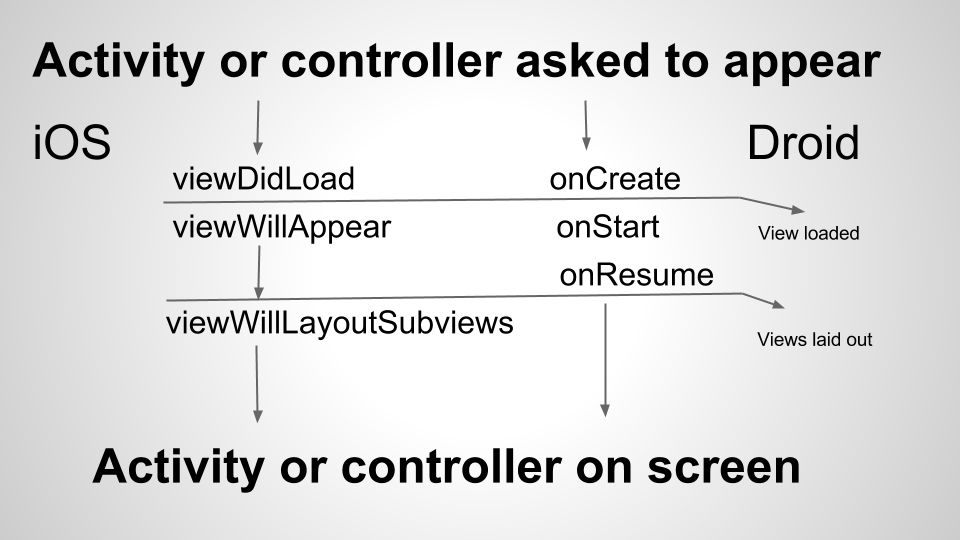
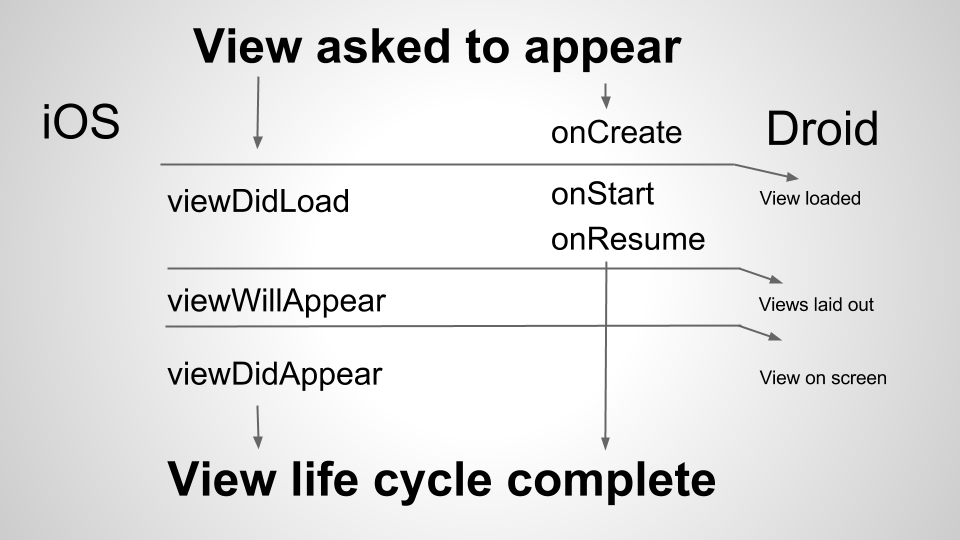
Edits are coming together...

diff --git a/_posts/mobile/2014-10-10-view-controller-lifecycle.md b/_posts/mobile/2014-10-10-view-controller-lifecycle.md
@@ -1,42 +1,41 @@
 ---
 layout: article
-title: "View Controller Lifecycle"
+title: "iOS > Android: View Life Cycle"
 modified:
 categories: mobile
-excerpt:
+excerpt: A comparison of the view and controller life cycle hooks in iOS and Android.
 tags: [android, iOS, mobile, view controllers]
 image:
   feature:
   teaser: /lifecycle/basic-lifecycle-android.png
   thumb: /lifecycle/basic-lifecycle-android.png
-date: 2014-10-10T08:31:09-07:00
+date: 2014-11-23T08:31:09-07:00
 ---
 
- In this post, I’m going to compare the life cycle hooks in iOS and Android, and discuss at a high level why I think iOS’s handling of view and controller life cycle is superior to Android’s.  Life cycle is a huge topic, so in the interest of brevity, I'll leave specifics for future posts.  In general, iOS provides hooks that match the life cycle of the view, which creates an easy and intuitive system that successfully hides system level concerns from the developer. On the other hand, Android tied their hooks to the state of the controller, which conflates the life cycle of the view with the state of the controller, exposing much of the complexity of the controller, and creating a confusing and quirky system.  
+ In this post, I’m going to compare the life cycle hooks in iOS and Android, and discuss at a high level why iOS’s system is superior to Android’s.  In general, iOS provides hooks that match the life cycle of the view, which creates an easy and intuitive system, and successfully hides system level concerns from the developer. On the other hand, Android's hooks follow the state of the controller, which conflates the life cycle of the view with the state of the controller, breaking the fundamental abstraction of MVC.  This stunningly bad design creates a confusing and quirky system, and exposes system level complexity to the developer.  
 
 MVC refresher
   
-To establish terminology, here's a quick description of Model-View-Controller, which is the design paradigm favored by both platforms.   In the Model-View-Controller design paradigm, a controller manages the view's state and life cycle. Controllers are also responsible for coordinating the state of their view with the rest of the app, and encompass significant complexity around memory management, view measurement and layout, and saved app states. Controllers are sometimes referred to as view controllers, but I'm going to leave out the "view" part to avoid confusion. 
+To establish terminology, here's a quick description of Model-View-Controller [insert link], the design paradigm favored by both platforms.   MVC seeks to reduce the complexity of user interfaces by separating concerns into models, views, and controllers.  Models hold the data, and views are the representation of the data on screen.  Controllers manage the views and their life cycle, and coordinate with models and the rest of the app.  Since controllers are in the middle of everything, they are usually significantly more complicated than views. 
 
 The View Life Cycle
 
 When a view is about to appear on screen, the app needs to perform the following tasks:
 
-1. Create the view
-2. Load the view into memory
-3. Lay out and measure the elements of the view
-4. Render the view on screen
+1. Create the view and load into memory
+2. Lay out and measure the elements of the view
+3. Render the view on screen
 
 And when the view should leave the screen:
 
-1. Persist view's state as needed
+1. Hide the view
 2. Release memory
 
-These tasks represent the major stages in a view's life cycle, and a developer might want to take action at some or all of these stages. To support these actions, each platform has provided a number of hooks in their controllers. 
+These tasks represent the major stages in a view's life cycle, and a developer might want to take action at some or all of these stages. For instance, a developer may wish to persist the state of the UI when a view is going off screen.  To support these actions, each platform has provided a number of hooks in their controllers. 
 
 The Life Cycle Hooks
 
-Apple's life cycle hooks closely match the steps of the view life cycle.  The most common methods are:
+Apple's most common methods are:
 
 1. ViewDidLoad
 2. ViewWillAppear
@@ -44,9 +43,17 @@ Apple's life cycle hooks closely match the steps of the view life cycle.  The mo
 4. ViewWillDisappear
 5. ViewDidDisappear
 
+As you can see from names like 'viewDid' and 'viewWill,' the iOS hooks are focused on the state of the view.  The hooks do not make any assertions about the state of the controller, or the larger state of the app.  Apple has successfully separated the concerns of the view from the concerns of the rest of the app in their life cycle hooks.  
+
+This separation, along with aptly-named hooks, creates an intuitive system. For instance, it's obvious that `viewWillAppear` will get called when the view is about to appear.  It is also clear that `viewDidAppear` will get called after the view has been rendered on screen, and after any associated system level tasks have been completed.  In general, I find the iOS hooks clearly named, and thoughtfully laid out. I will note that the developer is still responsible for learning what happens at a system level before each hook.   For instance, views are not measure in `viewDidLoad`, so any requests for a dimension will return 0, which can be a source of frustration for new developers.  But I find these details easy to look up.  
+
 Here are the equivalent Android docs.  
 
 ![Android Lifecycle](/images/lifecycle/basic-lifecycle-android.png)
+
+In contrast to iOS, Android's hooks get called when the *controller* is about to change state, not the view.  The states, like "paused" and "resumed," are controller states, so events like `onPause` are really tied to the controller.  In fact, Android's hooks make no mention of the view at all, and as we will see, only have a peripheral connection to the life cycle of the view.  This abstraction is incorrect and adds enormous complexity to Android's system.  
+
+Also, Android's hook names are not informative.  For instance, what does it mean for a controller to be "started," and how is that different than "resumed?"  What is the distinction between "paused" and "stopped?"  These state names do not convey the nuance and complexity that they encompass.  Notice that the docs have parentheses explaining how these controller states match to the view life cycle, which is the more natural way to understand when these hooks will be called.  Furthermore, by using the terminology "onEvent," Android fails to communicate whether system level events tied to that event come before or after the hook. For instance, when a controller is paused, is the hook called immediately while the view is still on screen, or after the view has been partially occluded? This ambiguous naming increases learning time and adds cognitive overhead.  
 
 Here's a quick comparison of the most common lifecycle methods on the two platforms, and where they fit into the life cycle of the view.  
 
@@ -54,36 +61,23 @@ Here's a quick comparison of the most common lifecycle methods on the two platfo
 
 ![View Disappearing](/images/lifecycle/view-controller-disappear.png)
 
-A Difference of Philosophy
+Side by side, the difference between iOS's view abstraction and Android's controller abstraction becomes apparent.  Apple has one hook at each stage, but Android sometimes has multiple hooks, or no hooks at all.  In other words, Android's controller abstraction doesn't match what a developer needs to do, making the system difficult to understand, and making it difficult to figure out where code should go.  
+ 
+Furthermore, by abstracting on the controller events, Android has tightly coupled the view's life cycle with the controller's life cycle, breaking the fundamental abstraction of MVC.  For instance, on screen rotation, Android envisioned a scenario where a developer would want to substitute different layouts for landscape and portrait modes.  This is a noble goal, and I applaud the flexibility that it grants.  However, due to the controller abstraction, in order to change the view, the *controller* also needs to change.  In other words, to swap out the view and call all of the life cycle hooks again, the entire controller needs to be destroyed and recreated, along with all of its data and state.  If the controller is not recreated properly, the resulting view could have bugs, lose data, or even crash, even though nothing in the controller has changed.  Thus, by abstracting on the controller, Android has complected the view and the controller, which breaks the basic abstraction of MVC.  It's an absolutely terrible design.  As if that's not bad enough, saving and recreating a view can be heinously difficult, which I will cover in a separate blog post.  
 
-Side by side, you can see that, while the hooks on the two platforms are roughly equivalent, the method names expose a major difference in the underlying design philosophy between the two systems.  Apple's hooks, with names like "viewDidAppear" and "ViewWillDisappear," are focused on the view and the view's state, while Android's life cycle hooks, like "onPause" and "onStop," are called when the *controller* is going to change to a different state. By abstracting on the view, iOS has created a more intuitive system that better maps to the view life cycle tasks listed above.  Furthermore, the iOS system must handle much of the controller complexity in the background because controller events are not passed to the developer, simplifying app code.  On the other hand,  Android's controller abstraction is confusing and leaks system level concerns into the realm of the developer, exposing massive complexity.  
+Rotation is not an isolated case; Android's controller abstraction leaks controller concerns and system level complexity into the realm of the developer anywhere and everywhere.  Here's a partial list of other life cycle quirks and gotchas that await the unwary Android developer.  
 
-Apple's system maps directly to the view life cycle tasks listed above, which creates an intuitive and easy to use system.  View life cycle is easy to understand because it relates to a concrete concept: a view that appears on a screen.  Furthermore, the visibility of the view is essentially binary, either the view is on screen or it is not, so there is only one, linear path to calling iOS's hooks.  There are some intermediate steps in the setup and tear down, but those steps are transient, and it's clear where they fit in the larger picture.  So, for instance, it's obvious that `viewWillAppear` will get called when the view is about to appear, there's no ambiguity.  However, since views still encompass a fair amount of complexity, there are some things to be aware of with the iOS hooks.  For instance, in `viewDidLoad`, views are not yet measured so all dimensions are 0, and other view dimensions cannot be inferred.  But, I found these quirks relatively easy to look up and understand.  Overall, the iOS hooks names clearly outline what is happening and when.
+- Backgrounded apps brought to the foreground will often crash if state is not persisted properly.  
+- The developer has to be aware that the system can destroy activities in the background. 
+- onSaveInstanceState is not always called, such as when the user “intentionally” exits the app.
+- The developer has to manually cache the state of the controller.
+- Persisted controllers can have data split between a bundle and a permanent store.  
+- There are often multiple ways that a hook can be called, and the developer needs to be aware of the differences in certain situations. 
+- There are quirks with older versions of Android, notably that `onStop` is not guaranteed to be called in early versions of Android.
+- Google maps objects have their own separate hell of a life cycle.  
 
-In contrast, Android's hook names are ambiguous.  By using the terminology "onEvent," Android fails to communicate whether system level events tied to that event come before or after the hook.  Furthermore, the state names themselves are not informative.  For instance, what does it mean for a controller to be "started," and how is that different than "resumed?"  What is the distinction between "paused" and "stopped?"  While the developer can look up these details, this ambiguity increases learning time and adds cognitive overhead.  Also, notice that the Android docs had to put parentheses explaining how these states match to the view life cycle, which is the more natural way to understand when these hooks will be called.  
+Some of these points represent major failures of design, while others "merely" add complexity.  There is also a separate set of life cycle issues around crashes in asynchronous callbacks when activities get destroyed.  Discussing these issues is beyond the scope of this post, but if there's anything in particular you would like to read more about, shoot me an email and I'll do my best to put together a post on that subject.  
 
-Furthermore, controllers are inherently more difficult to understand than views, which makes Android's system fundamentally more complex than iOS's.  As shown by Android's docs, controllers can have a number of intermediate states, and there are multiple ways to enter and exit those states.  In fact, Android's documentation has a number of bullet points outlining different situations where `onStart` can be called, because there are so many possibilities.  For instance, `onStart` can be called when creating a new activity, after a phone call has interrupted the app, or when the user navigates back to the app from another app.  In iOS, the developer doesn't have to worry about any of these scenarios, only whether a view is appearing or disappearing.  Also, there are a number of situations where certain hooks are not guaranteed to be called in Android.  For instance, an activity can go directly from `onCreate` to `onDestroy`.  Furthermore, `onDestroy` is not guaranteed to be called, so it seems kind of pointless to put code there.  When deciding what code to put in which hook, the developer needs to be aware of these different situations to make an informed decision.  It's extremely complicated, and requires a significant amount of study and attention to get right. 
+In contrast to Android, by tying hooks to the view, iOS has found the correct abstraction.  The hooks only assert that the view did appear, or the view will disappear.  There is no mention of, and really no room for, a concept of why these events might have happened.  Thus, the view abstraction **requires** that much of the controller complexity be handled in the background.  Complexity around whether a view should be cached, whether the system needs to reclaim memory from the controller, etc, CANNOT leak out into the realm of the developer.  It's a fantastic separation of concerns, enforced by design.  
 
-On the other hand, by tying hooks to the view, iOS has required that their controllers handle much of the controller complexity in the background.  The hooks only assert that the view did appear, or the view will disappear.  There is no mention of, and really no room for, a concept of why these events might have happened.  Thus, all of the complexity about whether a view should be cached, whether the system needs to reclaim memory from the controller, etc, MUST be handled by the system.  So, Apple has found a good abstraction that hides complexity.  
-
-In contrast, by abstracting on the controller events, Android has tightly coupled the view's life cycle with the controller's life cycle.  For instance, on screen rotation, Android envisioned a scenario where a developer would want to substitute different layouts for landscape and portrait modes.  This is a noble goal, and I applaud the flexibility that it grants.  However, due to the controller abstraction, in order to change the view, the **controller** also needs to change.  In other words, to swap out the view and call all of the life cycle hooks again, the entire controller needs to be destroyed and recreated, along with all of its data and state.  In essence, by abstracting on the controller, Android has complected the state of the view and the controller, which breaks the basic abstraction of MVC.   Furthermore, if the controller is not recreated properly, the resulting view could have bugs, lose data, or even crash, even though nothing in the controller has changed.  It is stunningly bad design.   As if that's not bad enough, saving and recreating a view can be heinously difficult, which I will cover in a separate blog post.  
-
-Unfortunately, the complexity on Android doesn't end there, a number of other life cycle quirks and gotchas await the unwary Android developer.  A lot of these reflect, or are consequences of Android's core poor design choice to abstract on the controller level.  Here are the ones I can think of off the top of my head, some of which were mentioned above:
-
-1. onSaveInstanceState is not always called, such as when the user “intentionally” exits the app.
-2. Listeners can fire in a random order.
-3. Google maps objects have their own separate hell of a life cycle.  
-4. Supposedly, Fragments require an empty public constructor, which is annoying and not well documented.  
-5. There is no clear documentation on when other setup methods are called, like onPrepareOptionsMenu.  I ended up having to experiment to figure out the order, and I’m not convinced that it's deterministic.
-6. There are quirks with older versions of Android, notably that onStop is not guaranteed to be called in early versions of Android.
-7. OnClickListeners and other listeners will cause crashes if called in quick succession or after the activity is destroyed.
-8. Backgrounded apps brought to the foreground will often crash due to state not being persisted.  
-9. There are often multiple ways that a hook can be called, and the developer needs to be aware of the differences in certain situations. 
-10. The developer has to be aware that the system can destroy activities in the background.  
-11. Fragments have their own set of life cycle methods that are interleaved with the hooks of the parent activity.  
-
-Some of these points represent major failures of design, while others merely add complexity.  There's a lot more I could say about the complexity of Android's view life cycle, but I'll leave those discussions for future blog posts.  If there's anything in particular you would like to read more about, shoot me an email and I'll do my best to put together a post on that subject.  
-
-To sum up, when I learned iOS, I coded for months with only the barest appreciation for what was being handled for me behind the scenes.  I had no idea what the system was doing to my views and controllers when an app was backgrounded, or when the app was rotated.  And I didn't care, I put my code in the logical life cycle hook, and it just worked.  On the other hand, by requiring the developer to be aware of the controller's state, Android adds a massive amount of incidental complexity to their apps, resulting in a confusing and quirky system.  From personal experience, eight months into the development of my first Android app, I was still encountering issues, edge cases, and crashes pertaining to lifecycle. I was still referring to documentation, and discovering new, important details about how the system worked.  I find that in general, Android developers must devote a lot of work and careful attention to handle all of the cases properly, to avoid crashes and UI bugs. So, with iOS as an example, I would like to see reductions in the complexity of view and controller life cycle in future versions of Android.  
-
-
+To sum up, when I learned iOS, I coded for months with only the barest appreciation for what was being handled for me behind the scenes.  I had no idea what the system was doing to my views and controllers when the app was backgrounded, or when the phone was rotated.  And I didn't care, I put my code in the logical life cycle hook, and it just worked.  On the other hand, by requiring the developer to be aware of the controller's state, Android has introduced a massive amount of incidental complexity.  Eight months into the development of my first Android app, I was still encountering issues, edge cases, and crashes pertaining to lifecycle. I was still referring to documentation, and discovering new, important details about how the system worked. Overall, Android's handling of life cycle feels poorly designed, and poorly executed.  In fairness to the framework engineers, Java imposes limitations, and I'm sure there are many other constraints that I'm not aware of that pushed the design in this direction.  But, with iOS as an example, I would like to see reductions in the complexity of view and controller life cycle in future versions of Android.  

diff --git a/_posts/mobile/2014-10-09-linear-layout.md b/_posts/mobile/2014-10-09-linear-layout.md
@@ -51,9 +51,11 @@ Note that auto layout will automatically infer a set of constraints to define ho
 
 ![The Basic Layout, with Constraints!](/images/ios/basic-layout-constraints.png)
 
-As you can see, I had to add eight constraints to do what Android did for free, adding significant complexity and code bloat.  As a view gets more complex and the number of constraints multiplies, this system quickly becomes unwieldy.  It can be really difficult to determine how a view element's position is being defined when there are dozens of constraints, and other elements are being dynamically resized.  Also, with so many constraints floating around, there are numerous ways to constrain the view, and the developer is responsible for choosing the best one.  For instance, to center each view, I chose the “Center X Alignment” constraint relative to the parent view. But, I could have defined the horizontal position of each view as a distance from the left margin, or I could have chained the Center X Alignments together, so that each view is center aligned with the one above it.  I chose relative to parent because the simplest layouts use constraints that are defined relative to the parent view whenever possible.  That way, constraints are not chained off of other elements in the view, and it is easier to add/remove views.  Regardless of the choices you make, constraints require a fair amount of thought, and can be very time consuming to get right. 
+I had to add eight constraints to do what Android did for free, adding significant complexity and code bloat.  As a view gets more complex and the number of constraints multiplies, this system quickly becomes unwieldy.  It can be really difficult to determine how a view element's position is being defined when there are dozens of constraints, and other elements are being dynamically resized.  
 
-In contrast to the web of constraints in IB, the readability of the Android xml layout file allows me to use simple attributes to build clean, easy to follow, and encapsulated view elements.  For instance, I used `fill_parent` on the width and height attributes of the LinearLayout to fill the screen, and set some margins on the views to fix some spacing issues.  I set the source file and the scaling type for the image view inside their respective xml tags, where the attributes are easy to find and understand. 
+Also, with so many constraints floating around, there are numerous ways to constrain the view, and the developer is responsible for choosing the best one.  For instance, to center each view, I chose the “Center X Alignment” constraint relative to the parent view. But, I could have defined the horizontal position of each view as a distance from the left margin, or I could have chained the Center X Alignments together, so that each view is center aligned with the one above it.  I chose relative to parent because the simplest layouts use constraints that are defined relative to the parent view whenever possible.  That way, constraints are not chained off of other elements in the view, and it is easier to add/remove views.  Regardless of the choices you make, constraints require a fair amount of thought, and can be very time consuming to get right. 
+
+In contrast to the web of constraints in iOS, the readability of the Android xml layout file allows me to use simple attributes to build clean, easy to follow, and encapsulated view elements.  For instance, I can use `fill_parent` on the width and height attributes of the LinearLayout to fill the screen, and set margins on the text view and button to fix some spacing issues.  I also can set the source file and the scaling type for the image view.  All of these attributes reside inside the xml tag, where the they are easy to find and understand. 
 
 {% highlight css %}
 <LinearLayout xmlns:android="http://schemas.android.com/apk/res/android"
@@ -249,6 +251,6 @@ Let's say I want to move these buttons to reside above the picture.  Because all
 
 It's a different story in iOS.  A button layout with the type of flexibility I demonstrated on Android is difficult or impossible to reproduce.  There are ways to hard code, or semi-hard code the layout, but the result will not be flexible or robust against certain design changes.  It's enough of a pain to try to recreate on iOS that I'm going to leave it to a future blog post, if there's enough interest.  Or if someone has a brilliant, simple way, I'm all ears. 
 
-To summarize, the fundamental mistake in iOS is a lack of a coherent abstraction.  Constraints are very low level building blocks for views, and they often do not represent the fundamental tasks that a developer is trying to accomplish. So, the developer has to spend a lot of time and energy translating desires like, "I want a couple of buttons on screen that expand on rotation," into this language of constraints.  It's time consuming, brainpower intensive, and is a distraction from the business logic of the app. Usually, there are multiple ways of doing the same thing, none of them simple. Thus, different code bases will often handle views differently, and even different developers in the same codebase will use different paradigms.  This inconsistency leads to complicated, asymmetric view hierarchies.  
+To summarize, the fundamental mistake in iOS is a lack of a coherent abstraction.  Constraints are very low level building blocks for views, and they often do not represent the fundamental tasks that a developer is trying to accomplish. So, the developer has to spend a lot of time and energy translating desires like, "I want a couple of buttons on screen that expand on rotation," into this language of constraints.  It's time consuming, brainpower intensive, and is a distraction from the business logic of the app. Also, the developer usually has to choose between multiple ways of accomplishing their task, none of them simple. Thus, different code bases will often handle views differently, and even different developers in the same codebase will use different paradigms.  This inconsistency leads to complicated, asymmetric view hierarchies.  
 
-On the other hand, by providing layout abstractions, Android has managed to hide much of the complexity surrounding views. Thus, developers can focus on making the important decisions like how a view should behave on rotation and how elements should resize on larger screens. Also, by providing readable xml, Android has successfully encapsulated the relevant attributes of each view element, which keeps the code organized and helps developers design views that can be easily moved, reused, and even subclassed.  When I'm building an iOS app, I usually plan to spend the bulk of my time on layout.  In Android, layouts are often less than 25% of my time.  So, in the future, with Android as an example, I would like to see Apple introduce layout abstractions to reduce complexity in iOS app views.  
+On the other hand, by providing layout abstractions, Android has managed to hide much of the complexity surrounding views. Developers can focus on making the important decisions like how a view should behave on rotation and how elements should resize on larger screens. Also, by providing readable xml, Android has successfully encapsulated the relevant attributes of each view element, which keeps the code organized and helps developers design views that can be easily moved, reused, and even subclassed.  When I'm building an iOS app, I usually plan to spend the bulk of my time on layout.  In Android, layouts are often less than 25% of my time.  So, in the future, with Android as an example, I would like to see Apple introduce layout abstractions to reduce complexity in iOS app views.  

diff --git a/_drafts/future-lifecycle.md b/_drafts/future-lifecycle.md
@@ -12,6 +12,8 @@ For instance, it exposes the multiple entry points and multiple outcomes of the 
 For instance, the onPause hook can be called for a number of reasons: the app has been backgrounded, the user has closed the app, another view has appeared, etc.  Sometimes, this method can be followed by a call to onDestroy, but that's not necessarily the case.  Sometimes, the app might have to save itself, signaled by another hook, onSaveInstanceState.  But onSaveInstanceState is not guaranteed to be called, for instance if the user "intentionally exits the view," whatever that means.  The developer must be aware of these different cases when deciding what to put in what hook.  
 
  Android envisioned view controllers that are active on screen, paused while something else is in the foreground, stopped, such as if the app is backgrounded, or destroyed such that it has to be recreated from scratch.  To reflect these states, they provided hooks like onPause and onStop.  These hooks define a set of states that a view controller can exist in with multiple entry points, which is fundamentally different than the linear approach favored by Apple.  
+ 
+The complexity on Android continues: Android controllers can have a number of intermediate states, and there are multiple ways to enter and exit those states, which further complicates Android's life cycle handling.  Android's documentation has a number of bullet points outlining different situations where `onStart` can be called, because there are so many possibilities.  For instance, `onStart` can be called when creating a new activity, after a phone call has interrupted the app, or when the user navigates back to the app from another app.  In iOS, the developer doesn't have to worry about any of these scenarios, only whether a view is appearing or disappearing.  Also, there are a number of situations where certain hooks are not guaranteed to be called in Android.  For instance, an activity can go directly from `onCreate` to `onDestroy`.  Furthermore, `onDestroy` is not guaranteed to be called, so it seems kind of pointless to put code there.  When deciding what code to put in which hook, the developer needs to be aware of these different situations to make an informed decision.  It's extremely complicated, and requires a significant amount of study and attention to get right. 
 
 **Memory**
 
@@ -35,6 +37,11 @@ In fact, there are many ways to create NullPointerExceptions with Android Activi
 
 [Insert app backgrounding example]
 
+2. Listeners can fire in a random order.
+4. Supposedly, Fragments require an empty public constructor, which is annoying and not well documented.  
+5. There is no clear documentation on when other setup methods are called, like onPrepareOptionsMenu.  I ended up having to experiment to figure out the order, and I’m not convinced that it's deterministic.
+7. OnClickListeners and other listeners will cause crashes if called in quick succession or after the activity is destroyed.
+
 **Other**
 
 The optimizations that Android made to reclaim memory and CPU from backgrounded views leak out into the realm of the developer, causing numerous crashes and introducing significant complexity. 
@@ -42,3 +49,4 @@ The optimizations that Android made to reclaim memory and CPU from backgrounded 
 I’ll also note that there are a number of other hooks that can be used on each platform, but their use is discouraged.  One example is Android’s OnGlobalLayoutListener which can be used to manipulate the view after the view has been laid out.  However, since Android views should be responsive, manual measurement usually isn’t necessary and this method should be used sparingly.  Also, on iOS, there is often a strong temptation to use viewDidAppear.  If you manipulate the view after the view is on screen, you'll often see weird flashes and resizing views in your app.  Unless you know what you are doing, modify views in viewWillAppear.  It's fine to do background operations that don't affect the view in viewDidAppear.
 
 As you can see, for the most part in iOS, the developer doesn't need to worry about what is happening to the view controller.  The developer is only responsible for performing the necessary actions to show the view on screen, and the system handles the complexity around saved states, foregrounding, backgrounding.  On the other hand, because Android developers must take action according to the state of the view controller, they assume responsibility for the complexity and the edge cases associated with the tasks of the view controller.  This responsibility leaks system level concerns into view controller code, and represents a massive increase in the complexity and responsibilities of the app code.  From personal experience, eight months into the development of my first Android app, I was still encountering issues, edge cases, and crashes pertaining to lifecycle.  I was still having to refer to lifecycle documentation, and it seemed like every week I was discovering a new hook.  On the other hand, I coded in iOS for months without appreciating what was being handled for me in the background.  It just worked. 
+

diff --git a/about/index.md b/about/index.md
@@ -16,6 +16,6 @@ ads: false
 
 An instinct for simplicity is one of the most important traits of a software engineer.  It guides us to make code more robust, and easier to read.  This blog is about my search for simplicity in my code, as I look for the best possible solutions and the most elegant architectures.  In the words of one of my mentors, "coding is about finding out fundamental truths about the universe." 
 
-Also, I have a couple of sections devoted to two passions of mine, whitewater kayaking and photography.  Enjoy!
+My name is Greg Lee, and I'm an iOS and Android developer.  I've written production apps in both platforms.  In another life, I trained as a mechanical engineer at Stanford with a focus on Mechatronics.  After working in medical devices for a couple of years, I decided to make the switch to software, and I haven't looked back.  I'm passionate about software architecture, and I love finding the right abstraction.  On this blog, you'll find my attempts to compare the basic abstractions in iOS and Android, to discover where they differ, and to determine which worked better.  Life is a learning process, so please don't hesitate with any feedback or suggestions either through comments or via email.  
 
-Hi, my name is Greg Lee, and I'm an iOS and Android developer.  I've written production apps in both platforms.  In another life, I trained as a mechanical engineer with a focus on Mechatronics.  After working in medical devices for a couple of years, I decided to make the switch to software, and I haven't looked back.  I'm passionate about software architecture, and I love finding the right abstraction.  On this blog, you'll find my attempts to compare the basic abstractions in iOS and Android, to discover where they differ, and to determine which worked better.  Life is a learning process, so please don't hesitate with any feedback or suggestions either through comments or via email.  
+Also, I have a couple of sections devoted to two passions of mine, whitewater kayaking and photography.  Enjoy!

diff --git a/_posts/kayaking/2014-10-14-canyon-creek.md b/_posts/kayaking/2014-10-14-canyon-creek.md
@@ -60,7 +60,7 @@ I knew I didn't have time to turn around, so I thought, "well, I guess I've gott
 	<img src="{{ site.url }}/images/kayaking/CC/backwards-bottom.jpg">
 </figure>
 
-There was one more large but straightforward slide, and then it was on to the drops that people normally walk up to from Faucherie lake.  These drops are really fun.  The first one consists of a ten foot lead in drop to a fast ramp to a 20 foot waterfall.  The waterfall has a shelf on the right, so you really want to be left.  Here's a picture of the R2 on I believe a first raft descent of the waterfall.
+There was one more large but straightforward slide, and then it was on to the drops that are easily accessible from Faucherie lake.  These drops are really fun.  The first one consists of a ten foot lead in drop to a fast ramp to a 20 foot waterfall.  The waterfall has a shelf on the right, so you really want to be left.  Here's a picture of the R2 on I believe a first raft descent of the waterfall.
 
 <figure>
 	<img src="{{ site.url }}/images/kayaking/CC/hobbs1.jpg">
